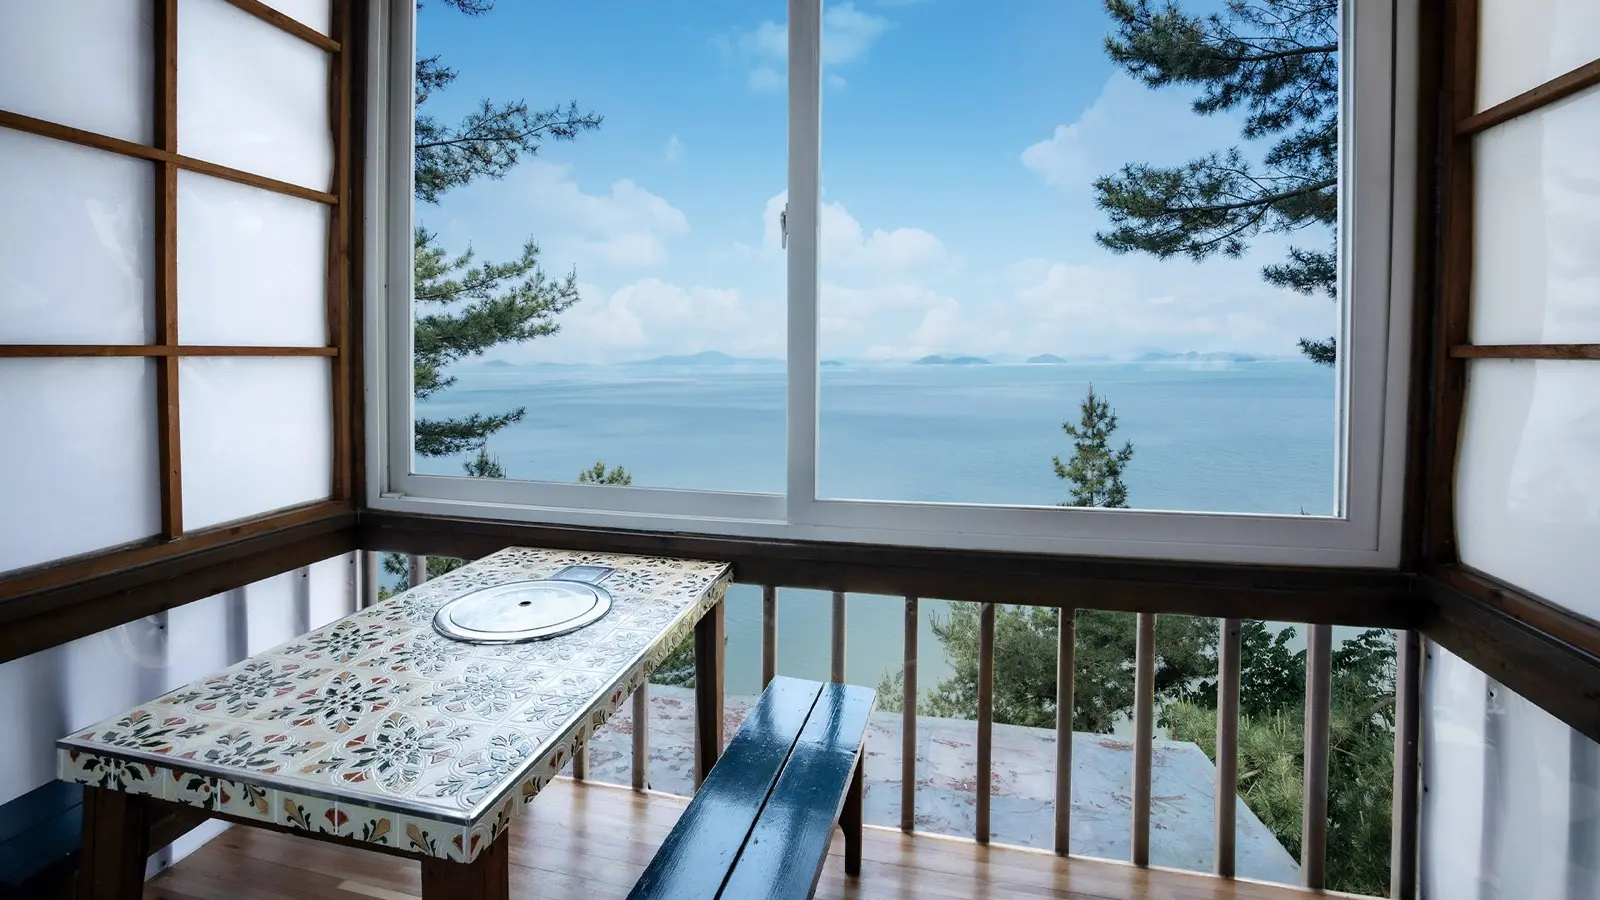
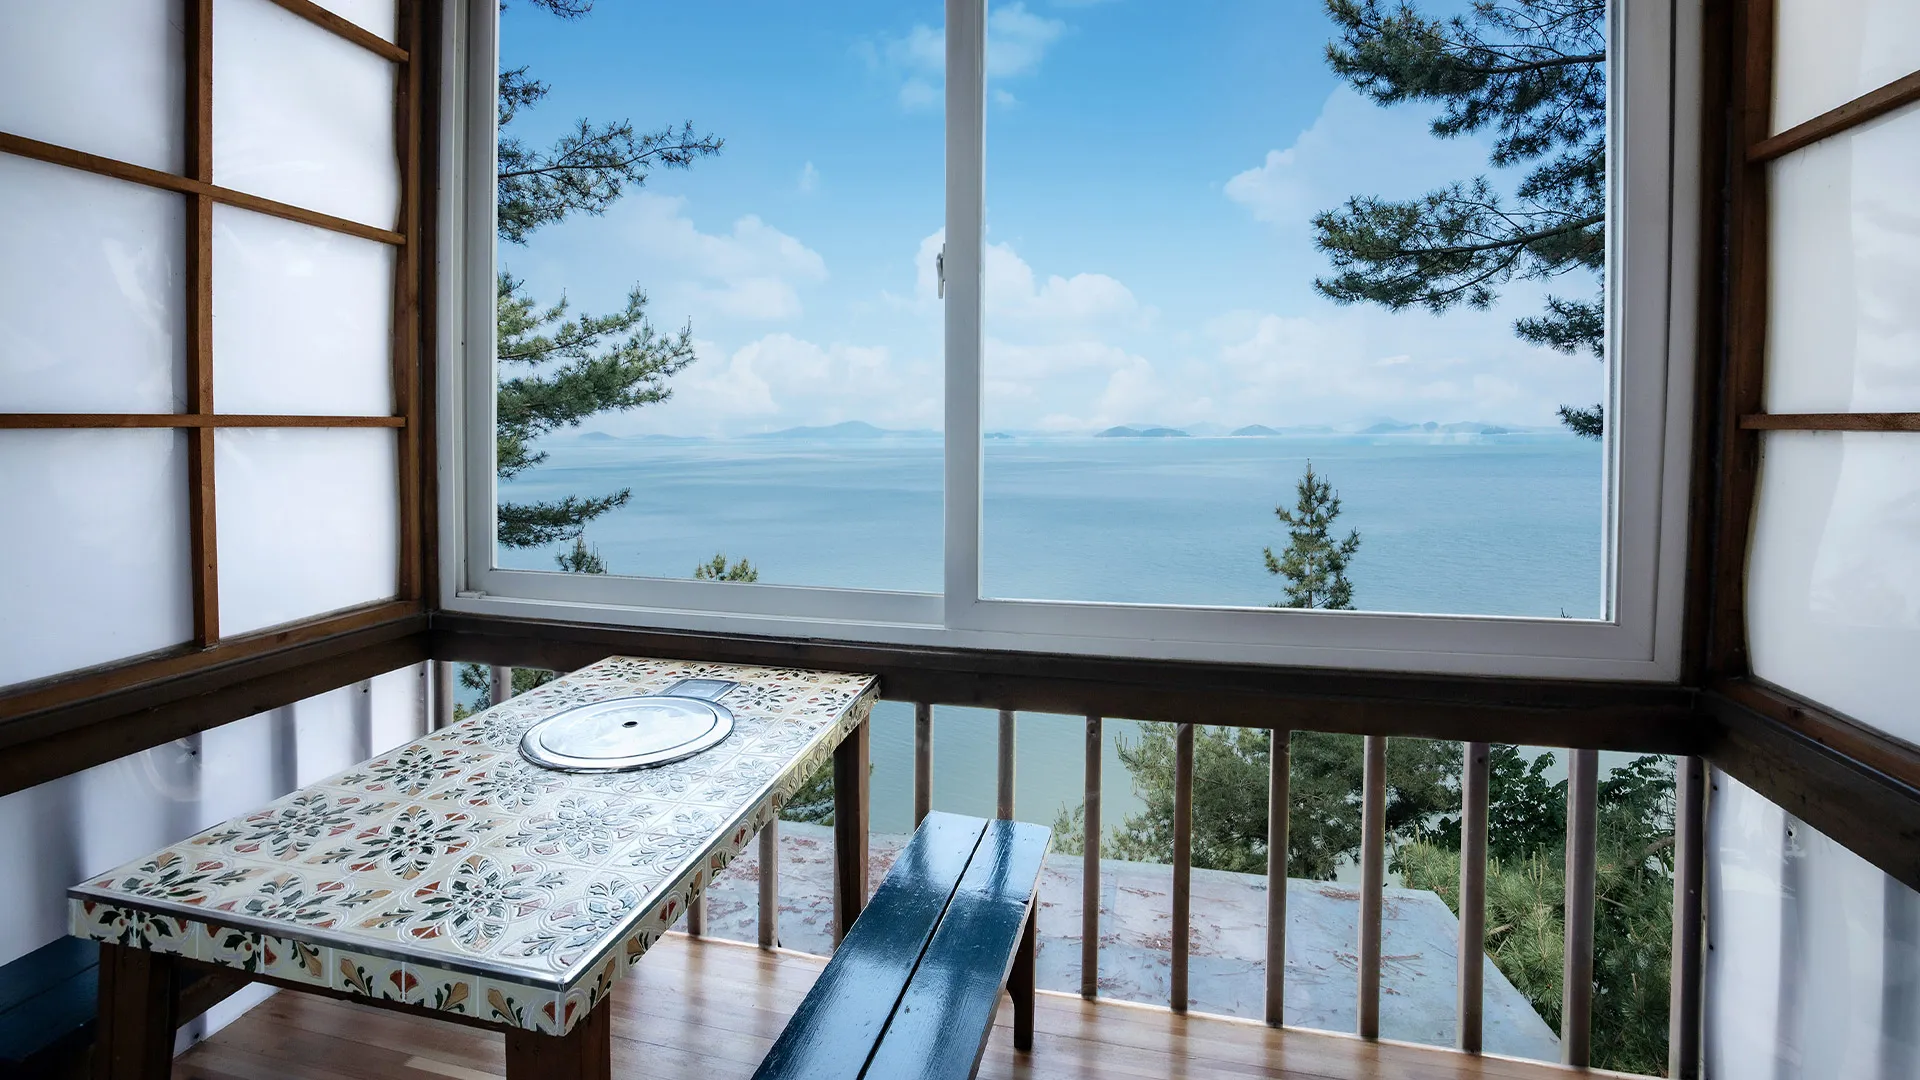
fix(hero): 전환 순간의 깜빡임 — 합성 레이어 승격 시점과 겹침 구간 조정
사용자 확인: 일시정지하면 안 깜빡인다 → 원인은 전환 순간이다.
불투명도는 961프레임 전수에서 한 번도 1 미만으로 안 떨어진다.
계산된 style 로는 정상인데 실기에서 깜빡인다면 남는 건 합성 단계다.

① 켄번즈 클래스가 «전환이 시작되는 그 순간» 붙는 구조였다. 크롬은 그때
   레이어를 합성 레이어로 승격하며 전체 화면 이미지를 새로 래스터화한다.
   will-change: transform 을 클래스와 img 양쪽에 선언해 승격을 마운트 시점으로
   앞당겼다 — 미리 받아 두는 «다음 장»에도 걸어야 의미가 있다.
② 나가는 장이 정확히 1.4s 에 꺼져 들어오는 장의 애니메이션 종료와 같은
   프레임에 걸렸다. 2.4s 로 늘려 1초를 더 깔아 둔다. 어차피 덮여 있어
   보이지 않고, 다음 전환(6.5s)과도 겹치지 않는다.
③ 히어로 8장을 원본 최대 해상도 1920 으로 교체. 사용자 화면이 3420px 라
   1600 은 2.14배 확대였다(스크린샷 실측). 1.78배로 줄었다.

헤드리스는 GPU 합성을 쓰지 않아 ①이 계측에 안 잡힌다 — 이번 진단은
사용자의 일시정지 테스트가 결정적이었다.

검증: tsc 0 · build 성공 · design-gate FAIL 0/WARN 1(기존 대비 경고) ·
합성알파 961프레임 전부 1.000 · 제목·버튼·인디케이터 모두 최상위.

Claude-Session: https://claude.ai/code/session_015GCnNmMbafVqdh27xki4vS

diff --git a/src/components/Hero.tsx b/src/components/Hero.tsx
@@ -64,7 +64,7 @@ export default function Hero() {
             transition={
               active
                 ? { duration: 1.4, ease: "easeInOut" }
-                : { duration: 0, delay: 1.4 } // 덮인 뒤에야 꺼진다(계단식, 페이드 아님)
+                : { duration: 0, delay: 2.4 } // 덮이고도 1초 더 깔려 있다가 꺼진다
             }
           >
             <img
@@ -74,7 +74,9 @@ export default function Hero() {
               fetchPriority={i === 0 ? "high" : "auto"}
               decoding="async"
               className={cn(
-                "absolute inset-0 h-full w-full object-cover",
+                // will-change 는 «미리 받아 두는 장»에도 걸어 둔다 — 켄번즈 클래스가 전환 시점에
+                // 붙으면 승격·재래스터도 그때 일어나기 때문이다. 마운트 때 끝내 놓는다.
+                "absolute inset-0 h-full w-full object-cover will-change-transform",
                 !preload && "animate-ken-burns"
               )}
             />

diff --git a/src/app/globals.css b/src/app/globals.css
@@ -312,4 +312,11 @@
 }
 .animate-ken-burns {
   animation: ken-burns 9s ease-out forwards;
+  /*
+    will-change 가 없으면 크롬이 «전환이 시작되는 그 순간» 이 레이어를 합성 레이어로
+    승격하면서 전체 화면 이미지를 새로 래스터화한다 — 그 한 프레임이 깜빡임으로 보인다.
+    미리 선언해 두면 승격이 전환 시점이 아니라 마운트 시점에 끝난다.
+    (헤드리스는 GPU 합성을 안 써서 이 현상이 계측에 안 잡힌다 — 실기에서만 보인다.)
+  */
+  will-change: transform;
 }
